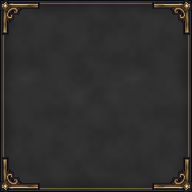
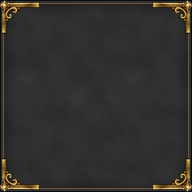
feat: paint the UI's last pixel art
The ability and upgrade emblems, the HUD's four faces and the panel
corners and button caps are now painted illustrations, built by
tools/process_emblems.py, build_hud_portrait.py and build_ui_frames.py
and drawn from their mipmaps. (Their pixel-art boards were removed with
730b575.)

diff --git a/rogue-like-play/tools/build_ui_frames.py b/rogue-like-play/tools/build_ui_frames.py
@@ -1,8 +1,9 @@
 """Build the Theme's 9-slice frames and button plates from generated ornaments.
 
-art/ui/source/ornaments.png is a 2x2 board: bronze panel corner, gold panel
-corner, bronze button end cap, gold button end cap (see BOARD). This script
-cuts them out, shrinks them to pixel art with the enemies' outline, and
+art/ui/source/painted/ornaments.png is a 2x2 board of painted pieces on
+magenta: bronze panel corner, gold panel corner, bronze button end cap, gold
+button end cap. This script cuts them out (their edge pulled in by
+EDGE_TRIM px so no magenta fringe stays), shrinks them smoothly, and
 composes, in art/ui/:
 
 - frame_panel.png, frame_card.png, frame_card_active.png: 96px frames with a
@@ -31,13 +32,12 @@ from __future__ import annotations
 import random
 from pathlib import Path
 
-from PIL import Image, ImageOps
+from PIL import Image, ImageFilter, ImageOps
 
-from process_enemy_sheet import add_outline, downscale
 from process_item_icons import cut_board
 
 ROOT = Path(__file__).resolve().parent.parent
-SOURCE = ROOT / "art" / "ui" / "source" / "ornaments.png"
+SOURCE = ROOT / "art" / "ui" / "source" / "painted" / "ornaments.png"
 OUTPUT = ROOT / "art" / "ui"
 FRAME_MARGIN = 42
 # The tiled middle of each frame; the grain repeats with this period.
@@ -58,7 +58,8 @@ CAP_HEIGHT = 36
 # into a tall cut gem instead of smearing.
 BUTTON_MARGIN_TOP = 21
 BUTTON_MARGIN_BOTTOM = 21
-PALETTE_COLORS = 24
+# The cut's edge holds a little of the key colour; pull it in (odd).
+EDGE_TRIM = 5
 OUTLINE = (10, 11, 14, 255)
 
 # Panel surfaces keep the Theme's approved colours and translucency.
@@ -86,17 +87,16 @@ PLATES = {
 }
 
 
-def pixel_part(source: Image.Image, size: tuple[int, int]) -> Image.Image:
-	"""Fit a cut-out into `size` minus its outline, as outlined pixel art."""
-	scale = min((size[0] - 2) / source.width, (size[1] - 2) / source.height)
-	small = downscale(source, scale)
-	small = small.crop(small.getchannel("A").getbbox())
-	alpha = small.getchannel("A")
-	flat = Image.new("RGB", small.size)
-	flat.paste(small.convert("RGB"), mask=alpha)
-	reduced = flat.quantize(colors=PALETTE_COLORS, method=Image.Quantize.FASTOCTREE, dither=Image.Dither.NONE).convert("RGBA")
-	reduced.putalpha(alpha)
-	return add_outline(reduced)
+def painted_part(source: Image.Image, size: tuple[int, int]) -> Image.Image:
+	"""Fit a cut-out into `size`, shrunk smoothly with a soft edge."""
+	alpha = source.getchannel("A").filter(ImageFilter.MinFilter(EDGE_TRIM)).filter(ImageFilter.GaussianBlur(1.0))
+	source.putalpha(alpha)
+	source = source.crop(alpha.getbbox())
+	scale = min(size[0] / source.width, size[1] / source.height)
+	target = (max(1, round(source.width * scale)), max(1, round(source.height * scale)))
+	# Shrunk premultiplied, so clear pixels never darken the edge.
+	premultiplied = Image.alpha_composite(Image.new("RGBA", source.size, (0, 0, 0, 0)), source).convert("RGBa")
+	return premultiplied.resize(target, Image.Resampling.LANCZOS).convert("RGBA")
 
 
 def grain(seed: int) -> list[list[float]]:
@@ -202,8 +202,8 @@ def plate(cap: Image.Image, fill: tuple, rim: tuple, shade: tuple) -> Image.Imag
 
 def main() -> None:
 	parts = cut_board(Image.open(SOURCE), 2, 2)
-	corners = {"bronze": pixel_part(parts[0], (CORNER, CORNER)), "gold": pixel_part(parts[1], (CORNER, CORNER))}
-	caps = {"bronze": pixel_part(parts[2], (CAP_HEIGHT, CAP_HEIGHT)), "gold": pixel_part(parts[3], (CAP_HEIGHT, CAP_HEIGHT))}
+	corners = {"bronze": painted_part(parts[0], (CORNER, CORNER)), "gold": painted_part(parts[1], (CORNER, CORNER))}
+	caps = {"bronze": painted_part(parts[2], (CAP_HEIGHT, CAP_HEIGHT)), "gold": painted_part(parts[3], (CAP_HEIGHT, CAP_HEIGHT))}
 	for name, (surface, rail) in SURFACES.items():
 		frame(corners["gold" if name.endswith("active") else "bronze"], surface, rail).save(OUTPUT / f"{name}.png")
 	for name, style in SURFACE_STYLES.items():

diff --git a/rogue-like-play/tools/process_emblems.py b/rogue-like-play/tools/process_emblems.py
@@ -1,11 +1,12 @@
-"""Cut generated emblem boards into ability and upgrade emblems.
+"""Cut the painted emblem boards into ability and upgrade emblems.
 
-Each board in art/emblems/source/ is a grid of round medallions on a flat
-background, in the order listed in BOARDS. Every medallion becomes
-art/emblems/<key>.png with the item icons' treatment (48px pixel art, octree
-palette, 1px dark outline, stored at 2x). Keys are the AbilityData.Effect
-names in lower case, plus the upgrade-only vitality and mana; see
-ui/emblem_icons.gd.
+Each board in art/emblems/painted/source/ is a grid of round medallions on
+flat magenta, in the order listed in BOARDS. Every medallion is cut out (its
+edge pulled in by EDGE_TRIM px so no magenta fringe stays), centred in a
+square and shrunk to SIZE px as art/emblems/<key>.png, which Godot imports
+with mipmaps and the UI draws with mipmapped linear filtering. Keys are the
+AbilityData.Effect names in lower case, plus the upgrade-only vitality and
+mana; see ui/emblem_icons.gd.
 
 	python tools/process_emblems.py
 """
@@ -14,17 +15,29 @@ from __future__ import annotations
 
 from pathlib import Path
 
-from PIL import Image
+from PIL import Image, ImageFilter
 
-from process_item_icons import ICON, STORED_SCALE, cut_board, to_icon
+from build_painted_objects import square
+from process_item_icons import cut_board
 
 ROOT = Path(__file__).resolve().parent.parent
-SOURCE = ROOT / "art" / "emblems" / "source"
+SOURCE = ROOT / "art" / "emblems" / "painted" / "source"
 OUTPUT = ROOT / "art" / "emblems"
+# Twice the largest an emblem is drawn (96 px on the level-up card).
+SIZE = 192
+FILL = 0.96
+# The cut's edge holds a little of the key colour; pull it in (odd).
+EDGE_TRIM = 5
 BOARDS = [
 	("emblems_a.png", 2, 3, ["max_hp", "vitality", "kill_heal", "defense", "vision", "mana"]),
 	("emblems_b.png", 2, 3, ["attack", "sword_damage", "spear_damage", "hammer_damage", "spear_range", "spear_pierce"]),
 ]
+
+
+def cut(source: Image.Image) -> Image.Image:
+	alpha = source.getchannel("A").filter(ImageFilter.MinFilter(EDGE_TRIM)).filter(ImageFilter.GaussianBlur(1.0))
+	source.putalpha(alpha)
+	return source.crop(alpha.getbbox())
 
 
 def main() -> None:
@@ -34,10 +47,7 @@ def main() -> None:
 			print(f"Skipped {name}: not generated yet")
 			continue
 		for key, source in zip(keys, cut_board(Image.open(path), rows, columns), strict=True):
-			emblem = to_icon(source)
-			if any(emblem.getchannel("A").histogram()[1:255]):
-				raise ValueError(f"{key}: alpha must be binary")
-			emblem.resize((ICON * STORED_SCALE, ICON * STORED_SCALE), Image.Resampling.NEAREST).save(OUTPUT / f"{key}.png")
+			square(cut(source), SIZE, FILL).save(OUTPUT / f"{key}.png")
 		print(f"Saved {len(keys)} emblems from {name}")
 
 

diff --git a/rogue-like-play/tools/build_hud_portrait.py b/rogue-like-play/tools/build_hud_portrait.py
@@ -1,0 +1,52 @@
+"""Shrink the painted HUD faces for ui/hud_portrait.gd.
+
+art/ui/source/painted/hud_portrait_<face>.png are bust portraits of the
+heroine on transparency, the blink, hurt and weary faces edited from the
+normal one so the rest stays in place. Each is cut to the same square, set by
+the normal face (the figure's width, from the top of the beret down), and
+shrunk to SIZE px as art/ui/hud_portrait_<face>.png, mipmapped in Godot.
+
+	python tools/build_hud_portrait.py
+"""
+
+from __future__ import annotations
+
+from pathlib import Path
+
+from PIL import Image
+
+ROOT = Path(__file__).resolve().parent.parent
+SOURCE = ROOT / "art" / "ui" / "source" / "painted"
+OUTPUT = ROOT / "art" / "ui"
+FACES = ["normal", "blink", "hurt", "weary"]
+# Twice the 96 px the plate shows a face at.
+SIZE = 192
+# Room above the beret, as a share of the square.
+HEADROOM = 0.03
+# How much of the figure's width the square spans; under 1 crops the
+# shoulders' outer edges so the face is larger.
+WIDTH_SHARE = 0.86
+
+
+def main() -> None:
+	normal = Image.open(SOURCE / "hud_portrait_normal.png").convert("RGBA")
+	left, top, right, _bottom = normal.getchannel("A").point(lambda v: 255 if v > 24 else 0).getbbox()
+	side = round((right - left) * WIDTH_SHARE)
+	centre = (left + right) // 2
+	box_top = max(0, top - round(side * HEADROOM))
+	box = (centre - side // 2, box_top, centre - side // 2 + side, box_top + side)
+	for face in FACES:
+		path = SOURCE / f"hud_portrait_{face}.png"
+		if not path.exists():
+			print(f"Skipped {face}: not generated yet")
+			continue
+		image = Image.open(path).convert("RGBA")
+		if image.size != normal.size:
+			image = image.resize(normal.size, Image.Resampling.LANCZOS)
+		premultiplied = image.crop(box).convert("RGBa")
+		premultiplied.resize((SIZE, SIZE), Image.Resampling.LANCZOS).convert("RGBA").save(OUTPUT / f"hud_portrait_{face}.png")
+		print(f"face {face}")
+
+
+if __name__ == "__main__":
+	main()
